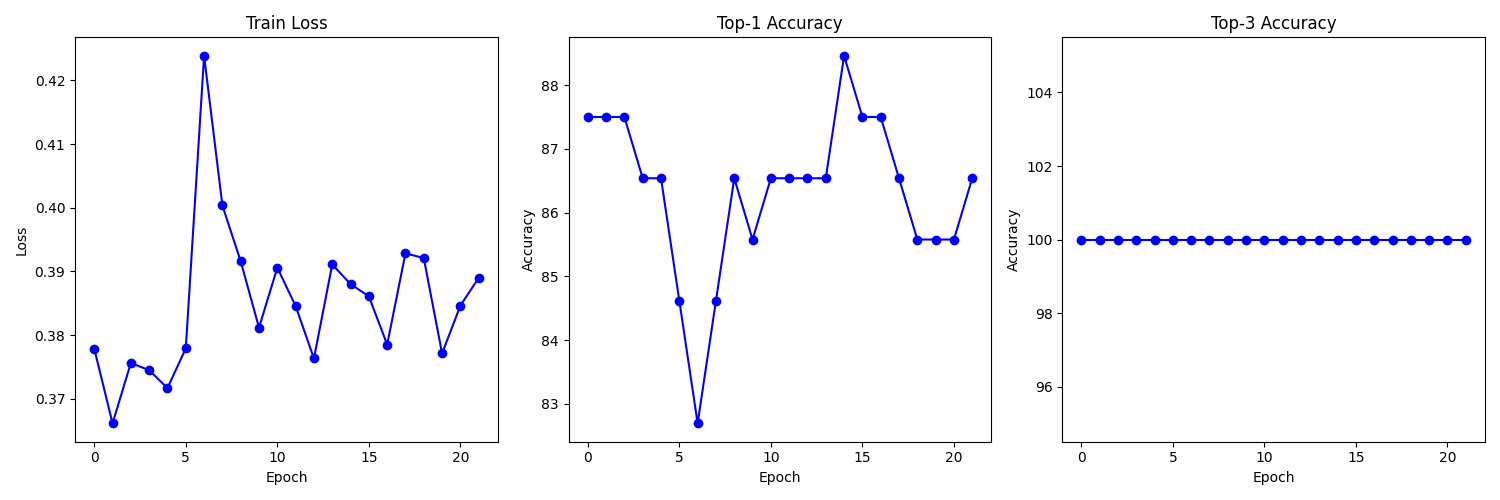
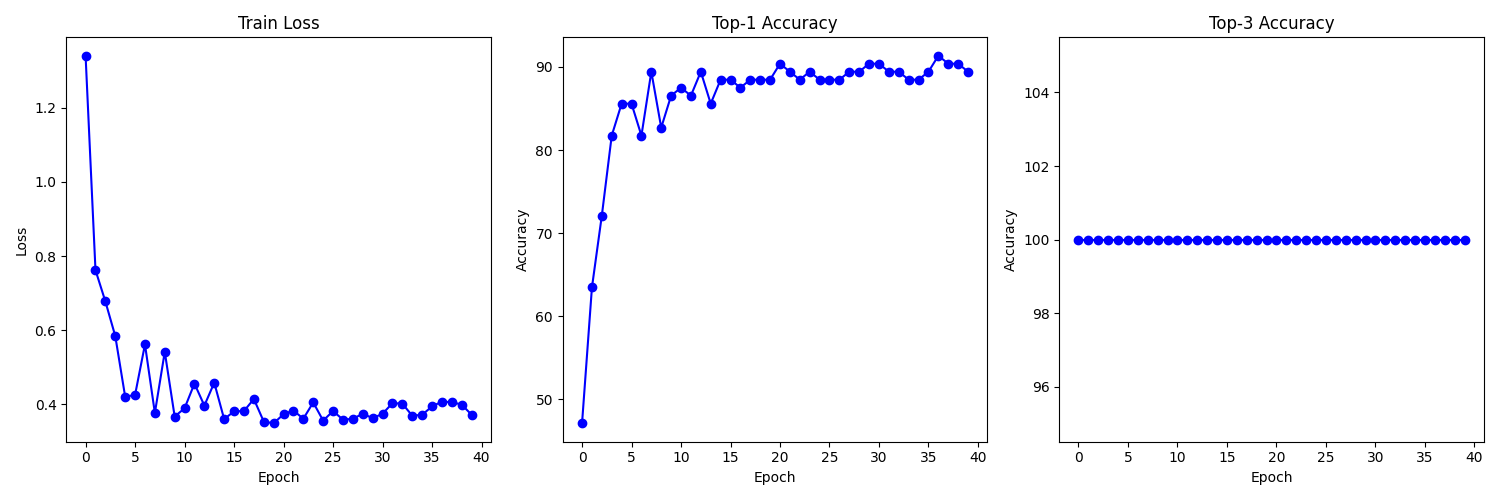
Added source

diff --git a/train.py b/train.py
@@ -11,32 +11,32 @@ import matplotlib.pyplot as plt
 import seaborn as sns
 from sklearn.metrics import confusion_matrix, classification_report
 
-# Định nghĩa các phép biến đổi tiền xử lý
+# Preprocessing and Augmentation
 transform = transforms.Compose([
-    transforms.Resize((224, 224)),  # Resize hình ảnh về kích thước phù hợp với mô hình
-    transforms.ToTensor(),  # Chuyển hình ảnh về tensor
-    transforms.Normalize(mean=[0.485, 0.456, 0.406], std=[0.229, 0.224, 0.225]),  # Chuẩn hóa với các giá trị mean và std của ImageNet
+    transforms.Resize((512, 512)),
+    transforms.ToTensor(),
+    transforms.Normalize(mean=[0.6689, 0.6875, 0.7218], std=[0.3951, 0.3775, 0.3541]),  # Normalize with current dataset
 ])
 
-# Load tập dữ liệu
+# Load datasets
 train_dataset = torchvision.datasets.ImageFolder(root='checkbox_state_v2/data/train', transform=transform)
 val_dataset = torchvision.datasets.ImageFolder(root='checkbox_state_v2/data/val', transform=transform)
 
 train_loader = DataLoader(train_dataset, batch_size=32, shuffle=True)
 val_loader = DataLoader(val_dataset, batch_size=32, shuffle=False)
 
-# Tải mô hình và tinh chỉnh
+# Load model and change output shape
 model = models.resnet50(weights=None)
 num_ftrs = model.fc.in_features
-model.fc = nn.Linear(num_ftrs, len(train_dataset.classes))  # Thay thế lớp cuối cùng
+model.fc = nn.Linear(num_ftrs, len(train_dataset.classes))  # Replace last output
 model_path = 'best_model.pt'
 model.load_state_dict(torch.load(model_path))
 
-# Chọn thiết bị
+# Choose device
 device = torch.device("cuda:0" if torch.cuda.is_available() else "cpu")
 model = model.to(device)
 
-# Định nghĩa hàm mất mát và bộ tối ưu
+# Loss and optimizer
 criterion = nn.CrossEntropyLoss()
 optimizer = optim.SGD(model.parameters(), lr=0.001, momentum=0.85)
 
@@ -140,9 +140,9 @@ def evaluate_and_plot(model, dataloader, epoch):
     return epoch_loss, epoch_top1_acc, epoch_topk_acc
 
 # Cập nhật vòng lặp huấn luyện để bao gồm đánh giá
-best_val_loss = 0.36
-best_val_acc1 = 87.5
-patience = 20  # Number of epochs to wait for improvement before stopping
+best_val_loss = 0.3106
+best_val_acc1 = 91.35
+patience = 200  # Number of epochs to wait for improvement before stopping
 patience_counter = 0  # Counter for tracking the number of epochs without improvement
 
 def train_model(model, criterion, optimizer, train_loader, val_loader, num_epochs=25):

diff --git a/calculate_mean_std.py b/calculate_mean_std.py
@@ -1,0 +1,34 @@
+import torch
+from torchvision import datasets, transforms
+from torch.utils.data import DataLoader
+import numpy as np
+
+# Giả sử 'your_dataset' là tập dữ liệu của bạn
+dataset = datasets.ImageFolder(
+    root='checkbox_state_v2/data',
+    transform=transforms.Compose([
+        transforms.Resize((512, 512)),
+        transforms.ToTensor(),
+    ])
+)
+
+# Loader để duyệt qua tập dữ liệu
+loader = DataLoader(dataset, batch_size=10, num_workers=0, shuffle=False)
+
+# Hàm để tính mean và std
+def calculate_mean_std(loader):
+    channels_sum, channels_squared_sum, num_batches = 0, 0, 0
+
+    for data, _ in loader:
+        channels_sum += torch.mean(data, dim=[0, 2, 3])
+        channels_squared_sum += torch.mean(data ** 2, dim=[0, 2, 3])
+        num_batches += 1
+
+    mean = channels_sum / num_batches
+    std = (channels_squared_sum / num_batches - mean ** 2) ** 0.5
+
+    return mean, std
+
+mean, std = calculate_mean_std(loader)
+print(f'Mean: {mean}')
+print(f'Std: {std}')

diff --git a/inference.py b/inference.py
@@ -15,9 +15,9 @@ image_url = args.image_url
 
 # Định nghĩa các phép biến đổi tiền xử lý
 transform = transforms.Compose([
-    transforms.Resize((224, 224)),
+    transforms.Resize((512, 512)),
     transforms.ToTensor(),
-    transforms.Normalize(mean=[0.485, 0.456, 0.406], std=[0.229, 0.224, 0.225]),
+    transforms.Normalize(mean=[0.6689, 0.6875, 0.7218], std=[0.3951, 0.3775, 0.3541]),  # Normalize with current dataset
 ])
 
 # Tải mô hình đã được huấn luyện

diff --git a/README.md b/README.md
@@ -1,19 +1,35 @@
 # Summarize:
 Below is performance chart:
-![image alt text](<assets/confusion_matrix_epoch_23.png>)
+![image alt text](<assets/confusion_matrix_epoch_80.png>)
 ![image alt text](<assets/metrics_plot.png>)
 
-I don't have GPU. We can speed up training and inference by parallel compute with accelarator(CUDA, TPU, DSP...)
-by using torch to device, and increase batch size(16, 32, 64, 128, 256... based on your VRAM). 
+I don't have GPU. We can speed up training and inference by parallel compute with accelerator(CUDA, TPU, DSP...) by using torch to device, and increase batch size(16, 32, 64, 128, 256... based on your VRAM). 
+
+If your VRAM is not enough, let's decrease batch size.
+
 
 ```bash
 model.to(device)
 image.to(device)
 ```
 
-## Data Analysic, Preprocessing and Augmentations
-There is multiclass classification problem (not multi-label), so we can use CrossEntropyLoss for output class name and 
-confident score of every class.
+## Train/Eval/Inference
+### Train/Eval
+``` bash
+docker build -t image_name:tag .
+docker run -it --name your-container-name -v $PWD:/usr/src/app your-image-name:tag
+python train.py
+```
+
+### Inference
+In container bash
+``` bash
+python inference.py --image_url=checkbox_state_v2/data/val/other/fde4d694c0fdff8e7f4c7e99b34678ec.png
+```
+## Training & Inference runtime analysis and optimization
+
+## Data Analysis, Preprocessing and Augmentations
+There is multi-class classification problem (not multi-label), so we can use CrossEntropyLoss for output class name and confident score of every class.
 
 After explore dataset, we see that have some images can be confused:
 + checked/0aabda81e5aa3cccbae391d6231238d8.png
@@ -27,11 +43,13 @@ After explore dataset, we see that have some images can be confused:
 If I remove this image, Accuracy will higher, but in this phase, I'll hold to training. We can add more data, or use another backbone model
 to learning this features.
 
-Preprocessing and Augumentation: I split datasets to train/val folder for train and evaluation.
+Preprocessing and Augmentation: I split datasets to train/val folder for train and evaluation.
 ``` bash
 python data_preprocessing.py
 ```
-Because symbol is "Symmetry" so I don't use flip and keep transformation easiest. I resize images to 224x224 and tranform to mean,std zone 
+In training, for avoid over-fitting, I'm using shuffle images, and validation is not shuffle.
+
+Because symbol is "Symmetry" and Design carefully, so I don't use FLIP or complex Augmentation and keep transformation easiest. I resize images to 224x224 and transform to mean,std zone 
 mean=[0.485, 0.456, 0.406], std=[0.229, 0.224, 0.225].
 
 We can tuning in this point!
@@ -44,30 +62,25 @@ Because this problem is multi-class, so I'm using nn.CrossEntropyLoss. (If multi
 ## The training code itself, i.e., the optimizer, default hyperparameters, epochs, etc.
 + We can load best model and continue to training.
 + Optimizer: In small datasets, I choose SGD, we can try Adam or switch based to convergence rate.
-+ optimizer = optim.SGD(model.parameters(), lr=0.001, momentum=0.85)
-+ patience = 20 (For early stopping avoid overfiting)
++ optimizer = optim.SGD(model.parameters(), lr=0.001, momentum=0.9)
++ patience = 200 (For early stopping avoid overfiting)
 + num_epochs=500
 
 ## Evaluation code i.e. how did you split the data, when do you evaluate the model.
-+ After train, we loop to evaluate. We can use cross-validation, but in small dataset, it can be overfitting.
++ After train, we loop to evaluate. We can use cross-validation, but in small dataset, it can be over-fitting.
 + I use validation loss, Top_1 Accuracy, Top_K_Accuracy and Confusion matrix for update performance of model.
 + If val_loss < best_val_loss and val_acc1 >= best_val_acc1, I'll save best model.
 
-
-## Train/Eval/Inference
-### Train/Eval
-``` bash
-docker run -it --name your-container-name -v $PWD:/usr/src/app your-image-name:tag
-python train.py
-```
-
-### Inference
-In container bash
-``` bash
-python inference.py --image_url=checkbox_state_v2/data/val/other/fde4d694c0fdff8e7f4c7e99b34678ec.png
-```
-## Training & Inference runtime analysis and optimization
-## Docs to reproduce the results
 ## Hyperparameter tuning
-## Training & Inference docker files
++ Optimizer: We tune optimizer types: SGD, Adam, AdamW...
++ Tuning momentum, learning rate, patience, mean/std of data distribution.
+
 ## Suggestions on how can you improve this system in the future.
++ Can modify loss function for class weighting bias (because unbalanced dataset), or 
+using over-sampling (can be over-fitting)
++ Real-life Application: we need to use Triton/TensorRT for dynamic batching inference -> maximize GPU resource.
++ Add more data every class, increase quality of dataset.
++ To improve speed, we can deep-pruning cluster of graph by Torch Pruning and Quantize to Int8.
++ Try to change model size of ResNet, or other architecture likely Transformer: We
+train embedding space (unsupervised) and downstream task classification(supervised).
++ Abstract to class for scalable source code.
